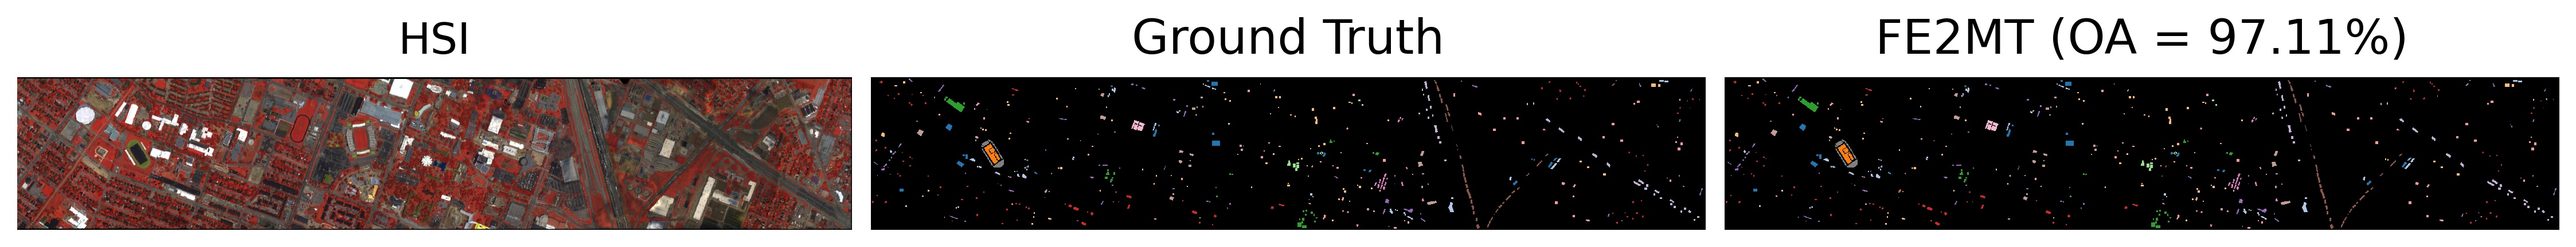
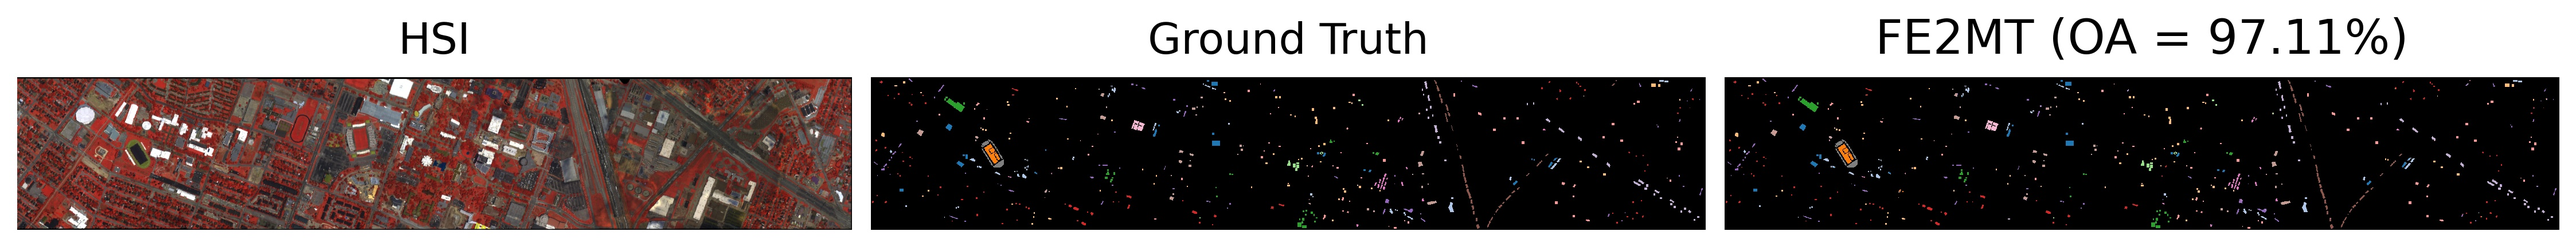
Update figure title font size

Changed region(s): [[0.4362, 0.0602, 0.5609, 0.2407]]

diff --git a/visualize_results.py b/visualize_results.py
@@ -249,7 +249,7 @@ def save_result_figure(
         norm=norm,
         interpolation="nearest",
     )
-    axes[1].set_title("Ground Truth", fontsize=20, pad=10)
+    axes[1].set_title("Ground Truth", fontsize=18, pad=10)
 
     axes[2].imshow(
         prediction_map,
